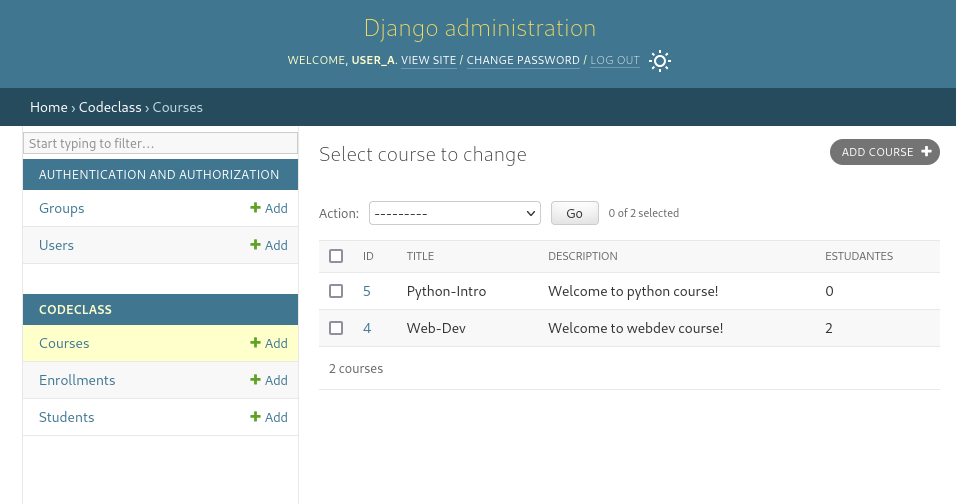
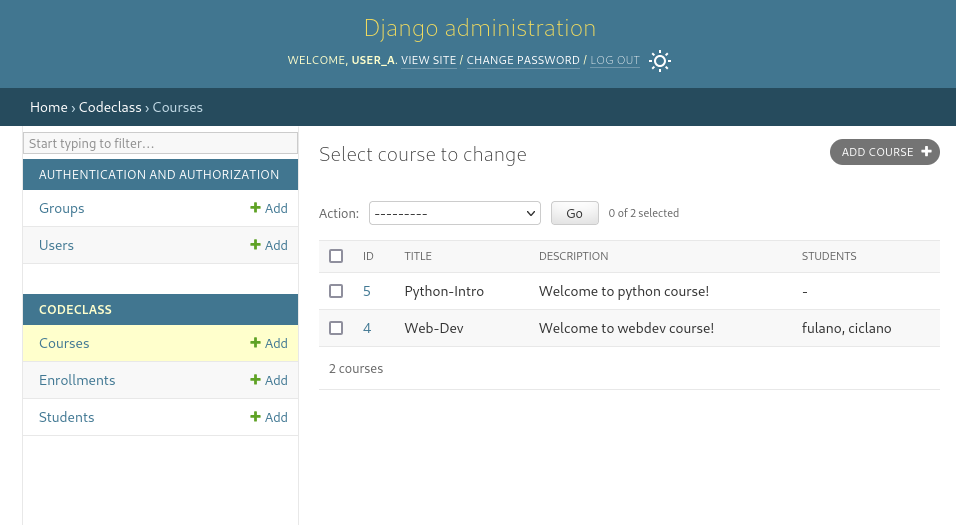
feat: Modificações na aula4

diff --git a/aulas/aula4.html b/aulas/aula4.html
@@ -127,10 +127,10 @@
     <p>Agora, para realmente começar a usar SQL para interagir com um banco de dados, vamos começar criando uma nova tabela. O <a href="https://www.w3schools.com/sql/sql_create_table.asp">comando para criar uma nova tabela</a> é mais ou menos assim:</p>
     
     <pre><code>CREATE TABLE users(
-id INTEGER PRIMARY KEY AUTOINCREMENT,
-username TEXT UNIQUE NOT NULL,
-email TEXT UNIQUE NOT NULL,
-pass_hash TEXT NOT NULL
+    id INTEGER PRIMARY KEY AUTOINCREMENT,
+    username TEXT UNIQUE NOT NULL,
+    email TEXT UNIQUE NOT NULL,
+    pass_hash TEXT NOT NULL
 );</code></pre>
 
     <p>No comando acima, estamos criando uma nova tabela que decidimos chamar de <code>users</code>, e adicionamos quatro colunas a esta tabela:</p>
@@ -251,9 +251,9 @@ id  username     email               password_hash
 
     <p>E também podemos usar outra lógica (<a href="https://www.w3schools.com/sql/sql_and_or.asp">AND, OR</a>) como em Python:</p>
     
-    <pre><code>SELECT * FROM users WHERE id > 2 AND email = "alano@codelab.br";</code></pre>
+    <pre><code>SELECT * FROM users WHERE id > 1 AND email = "alano@codelab.br";</code></pre>
 
-    <p><img src="static4/2andemail.png" alt="> 2 e email"></p>
+    <p><img src="static4/2andemail.png" alt="> 1 e email"></p>
 
     <pre><code>SELECT * FROM users WHERE id > 3 OR email = "fulano@codelab.br";</code></pre>
 
@@ -362,9 +362,9 @@ WHERE username = "harry"--" AND password = "12345";</code></pre>
     <p><a href="https://docs.djangoproject.com/en/4.0/topics/db/models/">Django Models</a> são um nível de <a href="https://techterms.com/definition/abstraction">abstração</a> sobre o SQL que nos permite trabalhar com bancos de dados usando classes e objetos Python em vez de consultas SQL diretas.</p>
     <p>Vamos começar a usar models criando um projeto Django para o dev.learn() e criando um app dentro desse projeto.</p>
     
-    <pre><code>django-admin startproject devlearn
-cd devlearn
-python manage.py startapp codeclass</code></pre>
+    <pre><code>>> django-admin startproject devlearn
+>> cd devlearn
+>> python manage.py startapp codeclass</code></pre>
 
     <p>Agora teremos que passar pelo processo de adicionar um app como de costume:</p>
     <ol>
@@ -392,13 +392,13 @@ python manage.py startapp codeclass</code></pre>
     <h2 id="migrations">Migrações</h2>
     <p>Agora, mesmo que tenhamos criado um model, ainda não temos um banco de dados para armazenar essas informações. Para criar um banco de dados a partir de nossos models, navegamos até o diretório principal de nosso projeto e executamos o comando.</p>
     
-    <pre><code>python manage.py makemigrations</code></pre>
+    <pre><code>>> python manage.py makemigrations</code></pre>
 
     <p>Este comando cria alguns arquivos Python que criarão ou editarão nosso banco de dados para poder armazenar o que temos em nossos models. Você deve obter uma saída que se parece mais ou menos com a abaixo, e se navegar até seu diretório <code>migrations</code>, notará que um novo arquivo foi criado para nós</p>
     <p><img src="static4/migrations.png" alt="saída de migrações 0"></p>
     <p>A seguir, para aplicar essas migrações ao nosso banco de dados, executamos o comando</p>
     
-    <pre><code>python manage.py migrate</code></pre>
+    <pre><code>>> python manage.py migrate</code></pre>
 
     <p>Agora, você verá que algumas migrações padrão foram aplicadas junto com as nossas, e também notará que agora temos um arquivo chamado <code>db.sqlite3</code> no diretório do nosso projeto</p>
     <p><img src="static4/migration1.png" alt="saída de migração"></p>
@@ -407,22 +407,22 @@ python manage.py startapp codeclass</code></pre>
     <p>Agora, para começar a adicionar informações e manipular este banco de dados, podemos entrar no shell do Django, onde podemos executar comandos Python dentro de nosso projeto.</p>
     
     <pre><code>python manage.py shell
-Python 3.7.2 (default, Dec 29 2018, 00:00:04)
-Type 'copyright', 'credits' or 'license' for more information
-IPython 6.5.0 -- An enhanced Interactive Python. Type '?' for help.
+Python 3.11.2 (main, Nov 30 2024, 21:22:50) [GCC 12.2.0] on linux
+Type "help", "copyright", "credits" or "license" for more information.
+(InteractiveConsole)
 
 # Importar nosso model de curso
-In [1]: from codeclass.models import Course
+>>> from codeclass.models import Course
 
 # Criar um novo curso
-In [2]: c = Course(title="Web-Dev", description="Welcome to webdev course!")
+>>> c = Course(title="Web-Dev", description="Welcome to webdev course!")
 
 # Inserir esse curso em nosso banco de dados
-In [3]: c.save()
+>>> c.save()
 
 # Consultar todos os cursos armazenados no banco de dados
-In [4]: Course.objects.all()
-Out[4]: &lt;QuerySet [&lt;Course: Course object (1)&gt;]&gt;</code></pre>
+>>> Course.objects.all()
+Out: &lt;QuerySet [&lt;Course: Course object (1)&gt;]&gt;</code></pre>
 
     <p>Quando consultamos nosso banco de dados, vemos que obtemos apenas um curso chamado <code>Course object (1)</code>. Este não é um nome muito informativo, mas podemos consertar isso. Dentro de <code>models.py</code>, definiremos uma função <code>__str__</code> que fornece instruções sobre como transformar um objeto Course em uma string:</p>
     
@@ -435,30 +435,30 @@ Out[4]: &lt;QuerySet [&lt;Course: Course object (1)&gt;]&gt;</code></pre>
 
     <p>Agora, quando voltamos ao shell, nossa saída é um pouco mais legível. Obs: talvez seja necessário sair e entrar do shell. Para recuperar o curso, podemos fazer <code>c = Course.objects.get(title="Web-Dev")</code></p>
     <pre><code># Criar uma variável chamada courses para armazenar os resultados de uma consulta
-In [7]: courses = Course.objects.all()
+>>> courses = Course.objects.all()
 
 # Exibindo todos os cursos
-In [8]: courses
-Out[8]: &lt;QuerySet [&lt;Course: Web-Dev&gt;]&gt;
+>>> courses
+Out: &lt;QuerySet [&lt;Course: Web-Dev&gt;]&gt;
 
 # Isolando apenas o primeiro curso
-In [9]: course = courses.first()
+>>> course = courses.first()
 
 # Imprimindo informações do curso
-In [10]: course
-Out[10]: &lt;Course: Web-Dev&gt;
+>>> course
+Out: &lt;Course: Web-Dev&gt;
 
 # Exibir id do curso
-In [11]: course.id
-Out[11]: 1
+>>> course.id
+Out: 1
 
 # Exibir título do curso
-In [12]: course.title
-Out[12]: 'Web-Dev'
+>>> course.title
+Out: 'Web-Dev'
 
 # Exibir descrição do curso
-In [13]: course.description
-Out[13]: 'Welcome to webdev course!''</code></pre>
+>>> course.description
+Out: 'Welcome to webdev course!''</code></pre>
 
     <p>Este é um bom começo. Agora, iremos criar um modelo para as matrículas. Devemos lembrar que a tabela de matrículas descreve uma relação <strong>Many-to-Many</strong> entre usuários e cursos. Para manter simplicidade, iremos também implementar uma tabela de estudantes (que substituirá, por enquanto, a tabela de usuários). Nosso <code>models.py</code> está assim:</p>
 
@@ -498,40 +498,40 @@ class Enrollment(models.Model):
     <p>Toda vez que fazemos alterações em <code>models.py</code>, temos que fazer migrações e depois migrar. Caso tivéssemos modificado algum campo do modelo <code>Course</code>, deveríamos remover as entradas antigas de cursos.</p>
 
     <pre><code># Criar Novas Migrações
-python manage.py makemigrations
+>> python manage.py makemigrations
 
 # Migrar
-python manage.py migrate</code></pre>
+>> python manage.py migrate</code></pre>
 
     <p>Agora, vamos testar esses novos models no shell do Django:</p>
 
     <pre><code># Importar todos os models
-In [1]: from codeclass.models import *
+>>> from codeclass.models import *
 
 # Criar alguns novos estudantes
-In [2]: ful = Student(username="fulano", email="fulano@codelab.br", bio="Hello")
-In [3]: cic = Student(username="ciclano", email="ciclano@codelab.br", bio="Hi")
+>>> ful = Student(username="fulano", email="fulano@codelab.br", bio="Hello")
+>>> cic = Student(username="ciclano", email="ciclano@codelab.br", bio="Hi")
 
 
-# Salvar os aeroportos no banco de dados
-In [4]: ful.save()
-In [5]: cic.save()
+# Salvar os estudantes no banco de dados
+>>> ful.save()
+>>> cic.save()
 
 # Recuperamos um dos cursos com o comando abaixo
-c = Course.objects.get(title="Web-Dev")
+>>> c = Course.objects.get(title="Web-Dev")
 
 # Adicionar uma matrícula e salvá-la no banco de dados
-m = Enrollment(student=ful, course=c)
-m.save()
+>>> m = Enrollment(student=ful, course=c)
+>>> m.save()
 
 # Exibir algumas informações sobre a matrícula
-In [8]: m
-Out[8]: &lt;Enrollment: 1: fulano matriculado em Web-Dev>
+>>> m
+Out: &lt;Enrollment: 1: fulano matriculado em Web-Dev>
 
 # Exemplo de uso do related_name para buscar as matrículas de um estudante específico
-student = Student.objects.get(id=1)
-enrollments = student.course_enrollments.all()
-enrollments
+>>> student = Student.objects.get(id=1)
+>>> enrollments = student.course_enrollments.all()
+>>> enrollments
 Out: &lt;QuerySet [&lt;Enrollment: fulano matriculado em Web-Dev>]>
 </code></pre>
 
@@ -587,8 +587,8 @@ def index(request):
 
     <pre><code>
 # Criando e salvando um novo curso:
-p = Course(title="Python-Intro", description="Welcome to python course!")
-p.save()
+>>> p = Course(title="Python-Intro", description="Welcome to python course!")
+>>> p.save()
         
 </code></pre>
 
@@ -599,7 +599,7 @@ p.save()
 
     <p>Como é muito comum que os desenvolvedores precisem criar novos objetos como fizemos no shell, o Django vem com um <a href="https://docs.djangoproject.com/en/4.0/ref/contrib/admin/">admin interface padrão</a> que nos permite fazer isso mais facilmente. Para começar a usar esta ferramenta, devemos primeiro criar um usuário administrativo:</p>
 
-    <pre><code>> python manage.py createsuperuser
+    <pre><code>>> python manage.py createsuperuser
 Username: user_a
 Email address: a@a.com
 Password:
@@ -775,22 +775,23 @@ admin.site.register(Enrollment)</code></code></pre>
     <p>Outra vantagem de usar o aplicativo admin do Django é que ele é personalizável. Por exemplo, se desejarmos ver todos os aspectos de um curso na interface admin, podemos criar uma nova classe dentro de <code>admin.py</code> e adicioná-la como um argumento ao registrar o model <code>Course</code>:</p>
 
     <pre><code>class CourseAdmin(admin.ModelAdmin):
-    list_display = ("id", "title", "description", "student_count")
-
-    # Contagem simples dos estudantes
-    def student_count(self, obj):
-        return obj.students.count()
-    student_count.short_description = "Estudantes"
+    list_display = ("id", "title", "description", "students_list")
+    
+    # Lista de estudantes
+    def students_list(self, obj):
+        return ", ".join([student.username for student in obj.students.all()])
+    students_list.short_description = "Students"
     
 # Registrar seus models aqui.
 admin.site.register(Course, CourseAdmin)</code></pre>
 
-    <p>Uma coisa a se notar é que não passamos a lista de estudantes como parâmetro. Infelizmente não é possível passar um campo <code>Many-to-many</code> para o Django Admin, mas há algumas abordagens alternativas que não veremos aqui.</p>
+    <p>Uma coisa a se notar é que não passamos a lista de estudantes <code>students</code> diretamente. Como <code>students</code> do model é um campo Many-to-Many, não é suportado pelo <code>list_display</code>, visto que retorna uma QuerySet. Então, para mitigar isto, podemos criar uma função que retorna a lista de estudantes em uma string.
+    Também há outras coisas que podemos definir, como limite de estudantes na string, etc.</p>
 
-    <p>Agora, quando visitamos a página admin para cursos, podemos ver o <code>id</code> também</p>
+    <p>Agora, quando visitamos a página admin para cursos, podemos ver as mudanças:</p>
     <img src="static4/courseadmin.png" alt="tabela admin">
     <p>Confira a <a href="https://docs.djangoproject.com/en/4.0/ref/contrib/admin/">documentação do admin do Django</a> para encontrar mais maneiras de personalizar o aplicativo admin.</p>
-
+ 
     <h2 id="users">Usuários</h2>
 
     <p>A última coisa que discutiremos na aula de hoje é a ideia de autenticação, ou permitir que os usuários façam login e logout de um site. Felizmente, o Django torna isso muito fácil para nós, então vamos passar por um exemplo de como faríamos isso. Começaremos criando um novo app chamado <code>users</code>. Aqui passaremos por todas as etapas normais de criação de um novo app, mas em nosso novo arquivo <code>urls.py</code>, adicionaremos mais algumas rotas:</p>
@@ -887,4 +888,4 @@ return render(request, "users/login.html", {
     <img src="static4/users3.png" alt="Demo3">
     <img src="static4/users4.png" alt="Demo4">
 
-    <p>Isso é tudo para esta aula! Na próxima vez, aprenderemos nossa segunda linguagem de programação do curso: JavaScript.</p>
+    <p>Isso é tudo para esta aula! Na próxima, aprenderemos nossa segunda linguagem de programação do curso: JavaScript.</p>
